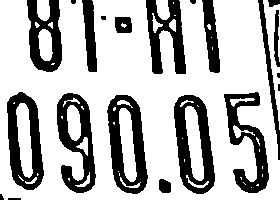
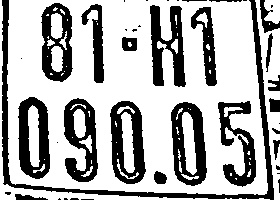
Add checking

diff --git a/detect_plate/detection.py b/detect_plate/detection.py
@@ -42,9 +42,9 @@ def preprocessing(img):
     # adaptive_thresh = cv2.adaptiveThreshold(blurred_img, 255, cv2.ADAPTIVE_THRESH_MEAN_C, cv2.THRESH_BINARY, 17, 2)
     # _, adaptive_thresh = cv2.threshold(blurred_img, 0, 255, cv2.THRESH_BINARY + cv2.THRESH_OTSU)
 
-    kernel = np.ones((3, 3), np.uint8)
-    morph_img = cv2.morphologyEx(adaptive_thresh, cv2.MORPH_CLOSE, kernel)
-    return morph_img
+    # kernel = np.ones((3, 3), np.uint8)
+    # morph_img = cv2.morphologyEx(adaptive_thresh, cv2.MORPH_CLOSE, kernel)
+    return adaptive_thresh
 
 def detect_plate(image_path):
     detect_plate_img = ""
@@ -52,8 +52,8 @@ def detect_plate(image_path):
     # Đọc file ảnh đầu vào
     Ivehicle = cv2.imread(image_path)
     Ivehicle = cv2.resize(Ivehicle, (900, 700))
-    Ivehicle = crop_horizontal(Ivehicle)
-    cv2.imwrite("crop_horizontal.jpg", Ivehicle)
+    # Ivehicle = crop_horizontal(Ivehicle)
+    # cv2.imwrite("crop_horizontal.jpg", Ivehicle)
     # Kích thước lớn nhất và nhỏ nhất của 1 chiều ảnh
     Dmax = 400
     Dmin = 300
@@ -111,12 +111,14 @@ def extract_number_plate_text(plate, image_file):
     # Concatenate the values into a single string
     concatenated_string = ""
     for index, value in enumerate(sorted_items):
-        temp_str = re.sub(pattern, '', str(value))
         if index == 0:
-            temp_str = remove_special_characters(temp_str[:-1]) + replace_with_dict(temp_str[-1], None)
-            concatenated_string = f"{temp_str}"
+            # value = replace_with_dict(value, None)
+            value = remove_special_characters(value)
+            value = value[:-1] + replace_with_dict(value[-1], None)
+            concatenated_string = f"{value}"
         elif index == 1:
             value = replace_with_dict(value, None)
             value = detect_dot(value)
+            value = remove_special_characters(value)
             concatenated_string += f" {filter_accept_number(value)}"
     return concatenated_string, extract_path

diff --git a/detect_plate/util.py b/detect_plate/util.py
@@ -12,7 +12,7 @@ def normalize_image(image):
 
 def replace_with_dict(val, d):
     if d is None:
-        d = {'I': '1', 'J': '1', ".": "", "-": "", "|": "", "i": '1', 'l': '1', 'L': '1', 'j': '1', 'T': 1}
+        d = {'I': '1', 'J': '1', "|": "1", "i": '1', 'l': '1', 'L': '1', 'j': '1', 'T': '1', '@': '0'}
     return val.translate(str.maketrans(d))
 
 
@@ -46,11 +46,8 @@ def filter_accept_number(text):
 def detect_dot(input_string):
     parts = input_string.split('.')
     if len(parts) > 1:
-        # Extract the first two characters from the decimal part
-        decimal_result = parts[1][:2]
-
         # Concatenate the integer part and the extracted decimal result
-        final_result = parts[0] + str(decimal_result)
+        final_result = parts[0][-3:] + parts[1][:2]
         return final_result
     else:
         return input_string
